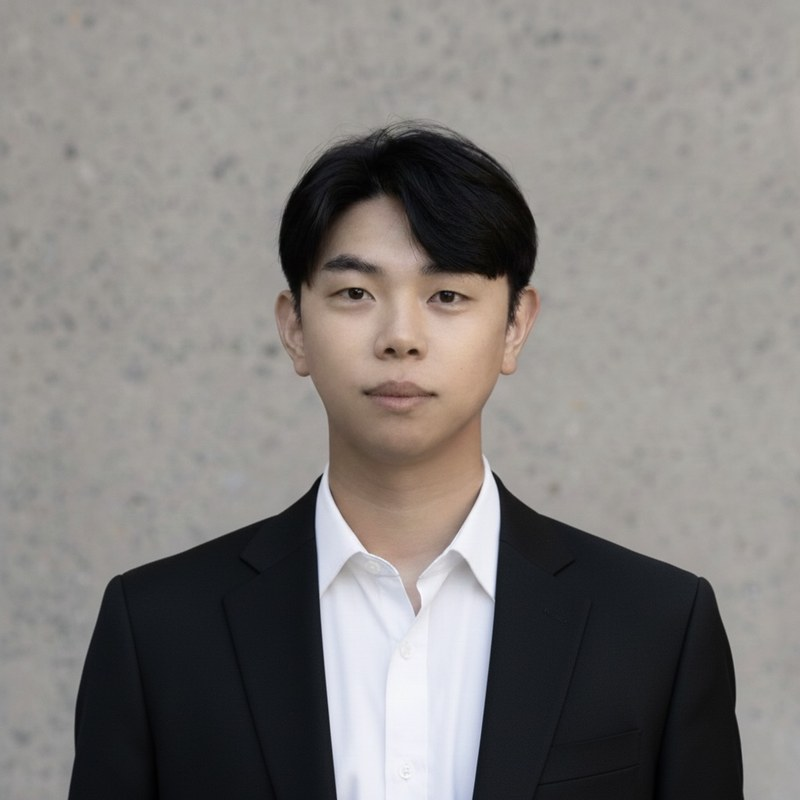
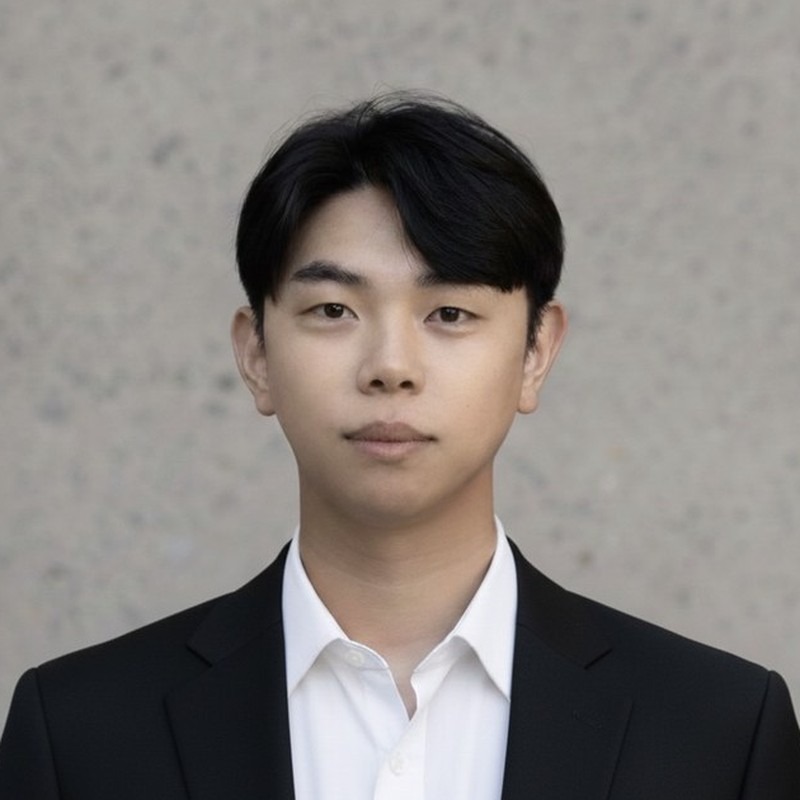
Add files via upload

diff --git a/style.css b/style.css
@@ -283,8 +283,13 @@ section.block:not(.tinted):has(+ section.block.tinted) { padding-bottom: 28px; }
 /* Year column is sized to "2022.10 – 2026.08", which measures 135px. */
 .timeline li {
   display: grid; grid-template-columns: 140px 1fr; gap: 16px;
-  padding: 15px 0; border-bottom: 1px solid var(--rule);
+  padding: 9px 0; border-bottom: 1px solid var(--rule);
 }
+/* First row sits right under the heading, last row right above the next one. */
+.timeline li:first-child { padding-top: 2px; }
+.timeline li:last-child  { padding-bottom: 0; }
+/* Headings that open a section of the CV. */
+.timeline + h2 { margin-top: 30px; }
 /* Use class="timeline timeline--short" for lists whose years are just "2026".
    The narrower column gives the text 666px instead of 558px, which is enough
    for the longest society name to stay on one line. */
@@ -537,8 +542,10 @@ section.block.tab-panel { padding-top: 26px; }
 .info-row dd { margin: 0; overflow-wrap: anywhere; }
 
 /* Narrow sidebar version (PI page): label above the value. */
-.pi-contact .info-row { grid-template-columns: 1fr; gap: 3px; padding: 12px 0; }
+.pi-contact .info-row { grid-template-columns: 1fr; gap: 3px; padding: 7px 0; }
 .pi-contact .info-row dt { padding-top: 0; }
+.pi-contact .info-row:first-child { padding-top: 0; }
+.pi-contact .info-row:last-child  { padding-bottom: 0; }
 
 .map-frame {
   aspect-ratio: 4 / 3; border-radius: 10px; overflow: hidden;

diff --git a/professor.html b/professor.html
@@ -76,7 +76,7 @@
         <div class="pi-photo">
           <img src="images/pi.jpg" alt="Gyunghee Jo">
         </div>
-        <dl class="pi-contact" style="margin-top:24px;">
+        <dl class="pi-contact" style="margin-top:16px;">
           <div class="info-row">
             <dt>Email</dt>
             <dd><a href="mailto:gyunghee17@hanyang.ac.kr">gyunghee17@hanyang.ac.kr</a></dd>
@@ -124,7 +124,7 @@
           </li>
         </ul>
 
-        <h2 style="margin-top:48px;">Education</h2>
+        <h2>Education</h2>
         <ul class="timeline">
           <li>
             <span class="year">2018.03 – 2021.08</span>
@@ -149,7 +149,7 @@
           </li>
         </ul>
 
-        <h2 style="margin-top:48px;">Awards &amp; Honors</h2>
+        <h2>Awards &amp; Honors</h2>
         <ul class="timeline timeline--short">
           <li><span class="year">2026</span><span class="what"><strong>KASBP Fellowship Award</strong><span>Korean American Society in Biotech and Pharmaceuticals&nbsp;(KASBP) Spring Symposium</span></span></li>
           <li><span class="year">2025</span><span class="what"><strong>Postdoctoral Scholar Travel Award</strong><span>44th Annual Meeting of the American Society for&nbsp;Virology&nbsp;(ASV)</span></span></li>

diff --git a/members.html b/members.html
@@ -97,21 +97,21 @@
       </div>
 
       <div class="person">
+        <div class="portrait">
+          <img src="images/member-janghyun.jpg" alt="Janghyun Kim">
+        </div>
+        <h3>Janghyun Kim</h3>
+        <p class="role">Undergraduate Intern</p>
+        <p>Department of Life Science,<br>Hanyang University</p>
+      </div>
+
+      <div class="person">
         <div class="portrait" style="border-style:dashed;">
           <img src="images/open-grad.png" alt="Open position for a graduate student">
         </div>
         <h3>You?</h3>
         <p class="role">Recruiting</p>
         <p>We have openings for M.S. and Ph.D. students.</p>
-      </div>
-
-      <div class="person">
-        <div class="portrait" style="border-style:dashed;">
-          <img src="images/open-intern.png" alt="Open position for an undergraduate intern">
-        </div>
-        <h3>You?</h3>
-        <p class="role">Recruiting</p>
-        <p>We have openings for undergraduate interns.</p>
       </div>
 
       <div class="person">
